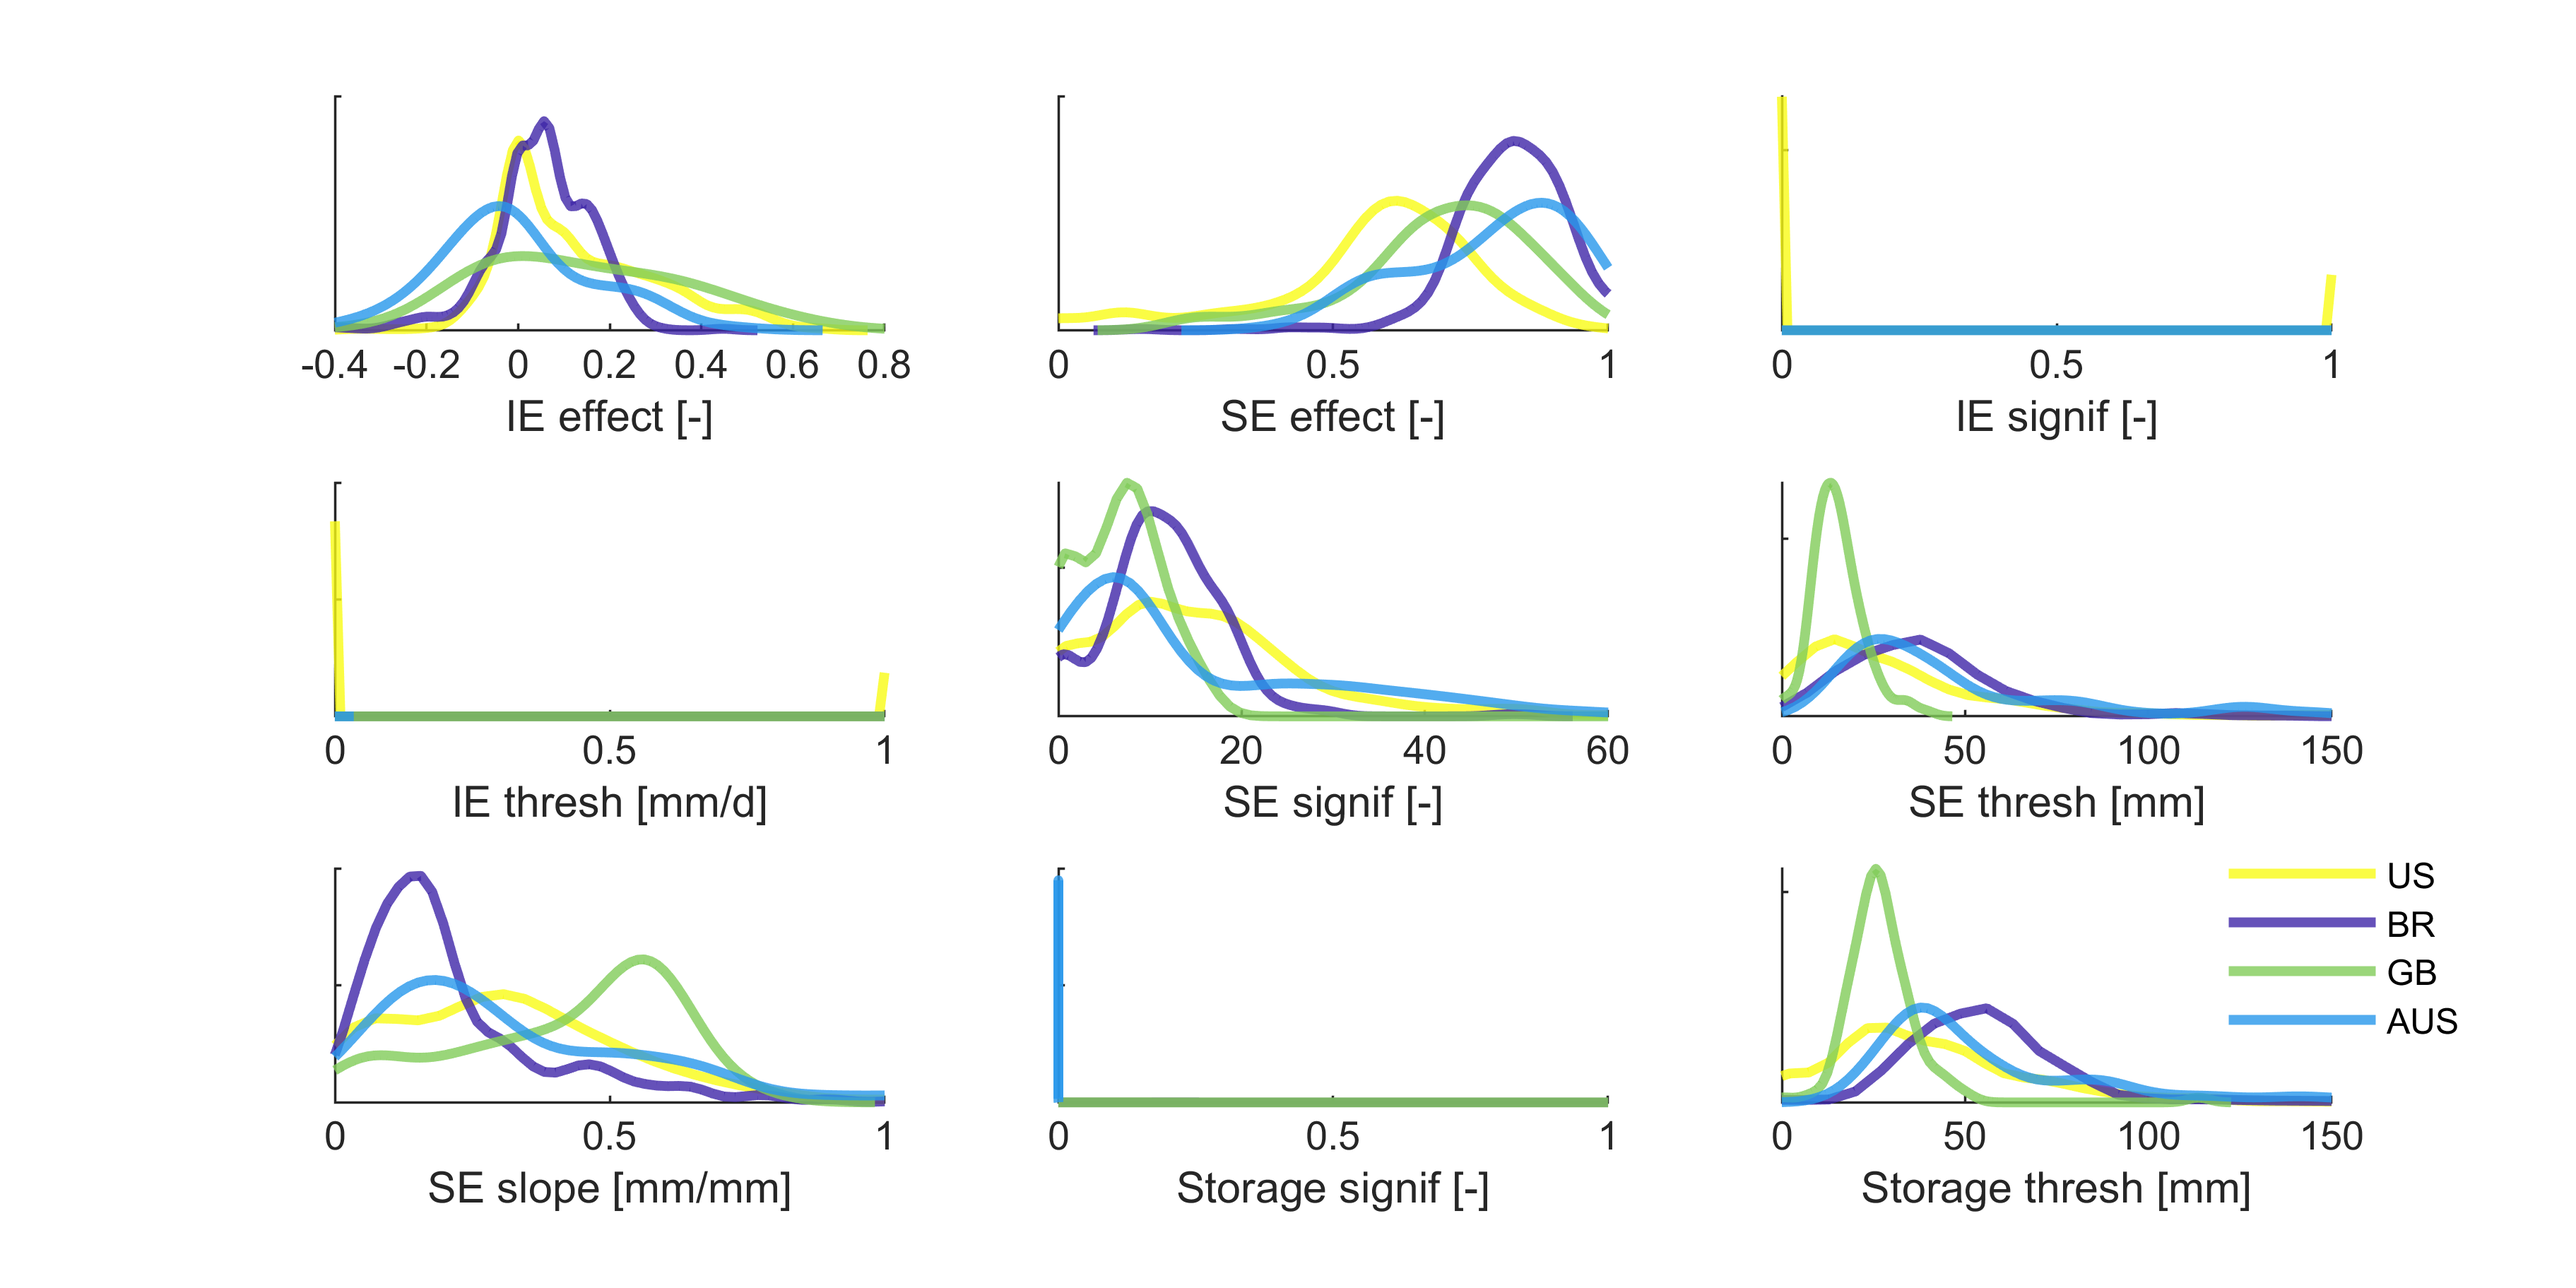
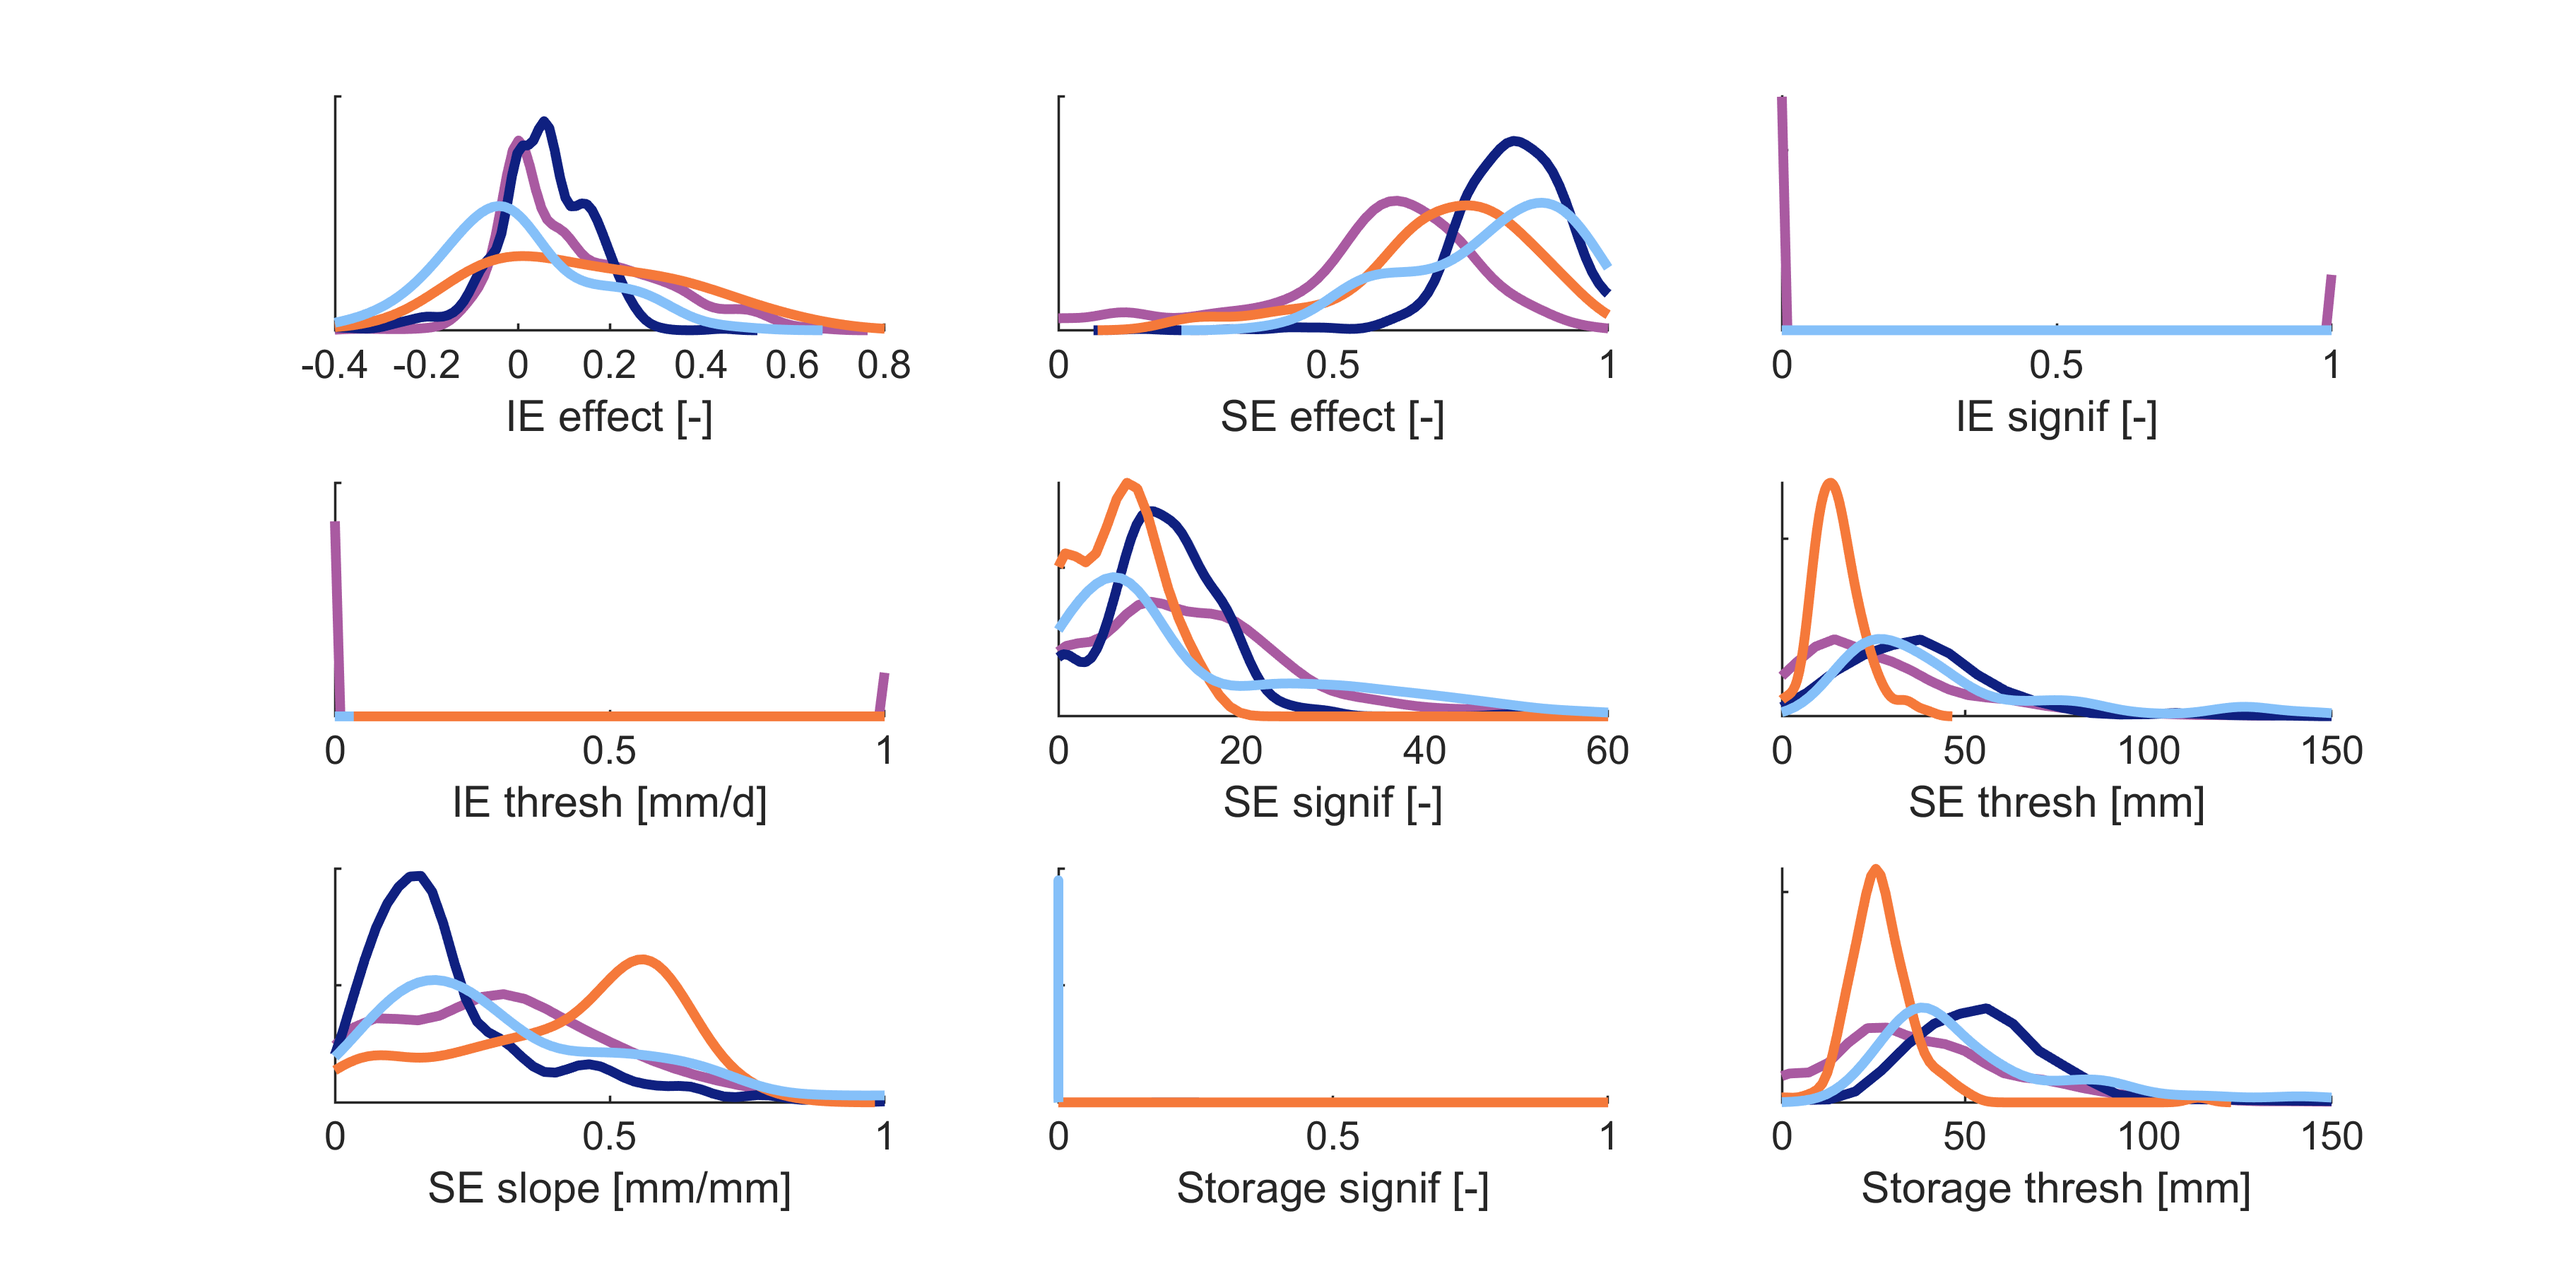
update plots

diff --git a/workflow_AnalyseSignatures.m b/workflow_AnalyseSignatures.m
@@ -168,16 +168,21 @@ signature_names_Groundwater = {...
 % We define the ranges to obtain nicer plots.
 ranges = [0 1; 0 1; 0 4; 0 1.2; ...
     0 1500; 0 1500; 0 6; 0 600; ...
-    1 5; 0 100; 0 3; 0 1; ...
-    0 0.5; 0 1; 0 1; 0 1;...
-    0 1];
-colour_mat = [flip(parula(4)) .8*ones(4,1)]; %brewermap(4,'Spectral')
+    0 6; 0 60; 0 3; 0 1; ...
+    0 0.6; 0 1.5; 0 .6; 0 1;...
+    0 1.];
+colour_mat = [
+    169 90 161;
+    245 121 58;
+    133 192 249;
+    15 32 128]./255;
+colour_mat = [colour_mat 1*ones(4,1)]; %brewermap(4,'Spectral')
 fig = figure('pos',[10 10 700 700]);
 groundwater_quantile_mat = NaN(17,5);
 groundwater_quantile_mat_country = NaN(17,5,4);
 j_vec = [1 4 2 3]; % to change plotting order of countries
 for i = 1:17%19
-    subplot(4,5,i)
+    subplot(6,3,i)
     hold on
     tmp = Groundwater_matrix(:,i);
     [f,xi] = ksdensity(tmp);
@@ -196,9 +201,9 @@ for i = 1:17%19
     set(gca,'YTickLabel',[]);
 end
 % leg = legend('US','GB','AUS','BR','box','off');
-leg = legend('US','BR','GB','AUS','box','off');
+% leg = legend('US','BR','GB','AUS','box','off');
 % leg.Position = [0.837 0.157 0.101 0.113];
-leg.Position = [0.733 0.123 0.134 0.081];
+% leg.Position = [0.733 0.123 0.134 0.081];
 saveFig(fig,strcat('distr_gw'),fig_path,'-dpng')
 
 % signature distributions overland flow
@@ -242,9 +247,9 @@ for i = 1:9
     set(gca,'YTickLabel',[]);
 end
 % leg = legend('US','GB','AUS','BR','box','off');
-leg = legend('US','BR','GB','AUS','box','off');
+% leg = legend('US','BR','GB','AUS','box','off');
 % leg.Position = [.55 .17 .10 .11];
-leg.Position = [0.834 0.184 0.152 0.162];
+% leg.Position = [0.834 0.184 0.152 0.162];
 saveFig(fig,strcat('distr_of'),fig_path,'-dpng')
 
 %% signature variations with climate aridity
@@ -272,7 +277,11 @@ signature_names_Groundwater = {...
     'EventRR_TotalRR_ratio',...
     'VariabilityIndex',...
     };
-colour_mat = flip(parula(4));%brewermap(4,'Spectral');
+colour_mat = [
+    169 90 161;
+    245 121 58;
+    133 192 249;
+    15 32 128]./255;%flip(parula(4));%brewermap(4,'Spectral');
 fig = figure('pos',[100 100 800 600]);
 var = attributes.aridity;
 groundwater_aridity_rho_s = NaN(19,5); % 1-4 countries, 5 total
@@ -286,7 +295,7 @@ for i = 1:17
         j = j_vec(k);
         tmp_country = tmp(attributes.country==j);
         scatter(var(attributes.country==j),tmp(attributes.country==j),5,...
-            'markeredgecolor',colour_mat(j,:),'markeredgealpha',.7)
+            'markeredgecolor',colour_mat(j,:),'markeredgealpha',1)
         groundwater_aridity_rho_s(i,j) = corr(var(attributes.country==j),tmp(attributes.country==j),'type','Spearman','rows','complete');
     end
     groundwater_aridity_rho_s(i,5) = corr(var,tmp,'type','Spearman','rows','complete');
@@ -317,7 +326,11 @@ signature_names_OverlandFlow = {...
     'Storage_thresh_signif',...
     'Storage_thresh',...
     };
-colour_mat = parula(4);%brewermap(4,'Spectral');
+colour_mat = [
+    169 90 161;
+    245 121 58;
+    133 192 249;
+    15 32 128]./255;;%brewermap(4,'Spectral');
 fig = figure('pos',[100 100 800 300]);
 % var = attributes.aridity;
 overland_flow_aridity_rho_s = NaN(10,5); % 1-4 countries, 5 total
@@ -330,7 +343,7 @@ for i = 1:9
         j = j_vec(k);
         tmp_country = tmp(attributes.country==j);
         scatter(var(attributes.country==j),tmp(attributes.country==j),5,...
-            'markeredgecolor',colour_mat(j,:),'markeredgealpha',.7)
+            'markeredgecolor',colour_mat(j,:),'markeredgealpha',1)
         overland_flow_aridity_rho_s(i,j) = corr(var(attributes.country==j),tmp(attributes.country==j),'type','Spearman','rows','complete');
     end
     overland_flow_aridity_rho_s(i,5) = corr(var,tmp,'type','Spearman','rows','complete');

diff --git a/workflow_InspectSignaturePlots.m b/workflow_InspectSignaturePlots.m
@@ -63,7 +63,12 @@ end
 %% examples of signature aridity relationships that differ between countries
 fig = figure('pos',[100 100 900 250]);
 
-colour_mat = flip(parula(4));%[brewermap(4,'Spectral')]; %.8*ones(4,1)
+colour_mat = [
+    169 90 161;
+    245 121 58;
+    133 192 249;
+    15 32 128]./255;
+% colour_mat = flip(parula(4));%[brewermap(4,'Spectral')]; %.8*ones(4,1)
 
 subplot(1,3,1); hold on
 scatter(attributes.aridity(attributes.country==1 & attributes.frac_snow<0.3),...
@@ -128,7 +133,7 @@ saveFig(fig,strcat('aridity_examples'),fig_path,'-dpng')
 %% compare IE and SE effect in UK
 fig = figure('pos',[100 100 300 250]); hold on
 colour_mat = [brewermap(9,'Set1')]; %.8*ones(4,1)
-nr = 1;
+nr = 2;
 scatter(attributes.high_prec_freq(attributes.country==nr & attributes.frac_snow<0.3),...
     CAMELS_signatures_OverlandFlow.SE_effect(attributes.country==nr & attributes.frac_snow<0.3),...
     'markeredgecolor',colour_mat(4,:))
@@ -172,18 +177,18 @@ Q = Q_mat{i};
 
 % plot Q and P data
 fig1 = figure('Name',num2str(attributes.gauge_id(i)),'NumberTitle','off',...
-    'pos',[100 100 500 200],...
+    'pos',[100 100 500 220],...
     'Renderer','painters'); % OpenGL leads to strange plots
 
 yyaxis left
 hold on
-p1 = plot(t,Q,'-','color',0*[1 1 1],'linewidth',2);
+p1 = plot(t,Q,'-','color',0*[1 1 1],'linewidth',1.0);
 xlabel('Date')
 xlim([datetime(1994,09,01) datetime(1997,09,01)])
 ylabel('Q [mm/d]')
 
 yyaxis right
-p2 = plot(t,movmean(P,1),'-','color',.5*[1 1 1]);
+p2 = plot(t,movmean(P,1),'-','color',.6*[1 1 1],'linewidth',0.5);
 % p3 = plot(t,movmean(PET,1),'-','color',.8*[1 1 1]);
 ylabel('P [mm/d]')
 set(gca,'Ydir','reverse')
@@ -197,7 +202,15 @@ set(ax, 'SortMethod', 'depth')
 
 % plot signatures (recessions)
 sig_RecessionAnalysis(Q,t,'fit_individual',true,'plot_results',true,'eps',0.001*median(Q,'omitnan'));
-sig_BaseflowRecessionK(Q,t,'eps',0.001*median(Q,'omitnan'),'plot_results',true);
+xlim([10^-1 10^1]); ylim([10^-3 10^1])
+xlabel('Q [mm/day]'); ylabel('dQ/dt [mm/day^2]'); title('')
+fig = gcf;
+fig.Position = [100 100 250 220]; 
 
+sig_BaseflowRecessionK(Q,t,'eps',0.001*median(Q,'omitnan'),'plot_results',true);
+xlabel('Relative time [days]'); ylabel('Flow [mm/day]'); title('')
+fig = gcf;
+box off
+fig.Position = [100 100 500 220]; 
 
 %% TODO: Add plots from SI
